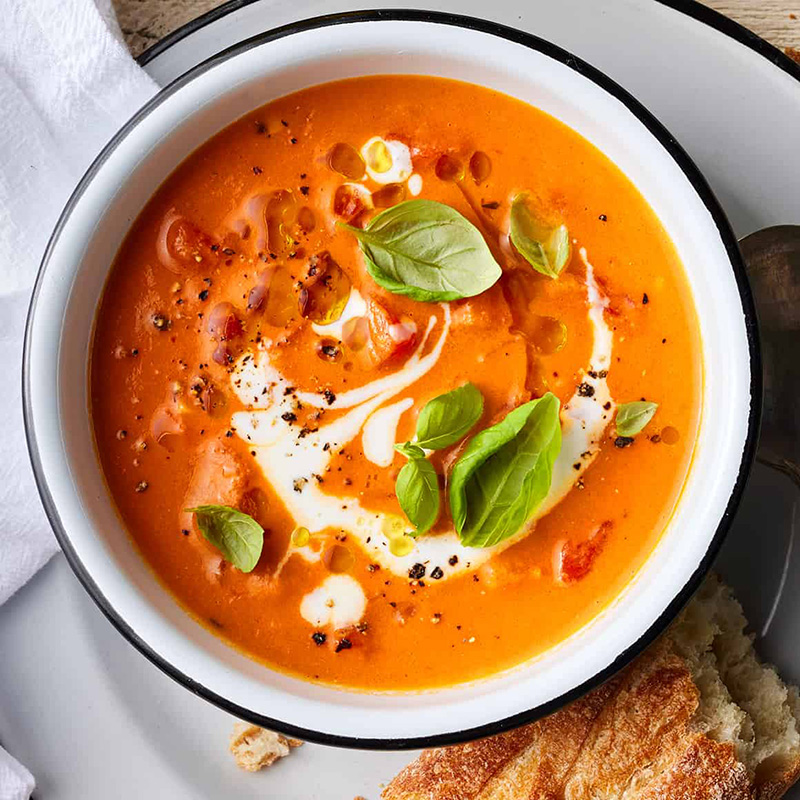
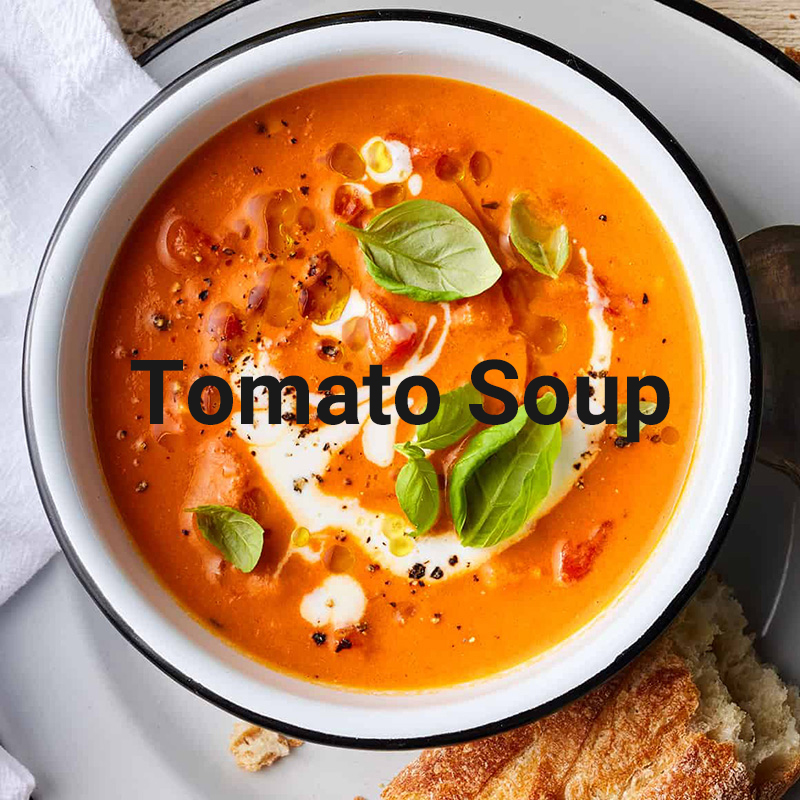
Update Home images with text, add back to Home buttons

Changed region(s): [[0.1562, 0.4375, 0.8438, 0.5625]]

diff --git a/recipes/tomatosoup.html b/recipes/tomatosoup.html
@@ -7,8 +7,11 @@
 </head>
 <body>
     <h1>Tomato Soup</h1>
+    <hr>
+    <a href="../index.html">Back to Home</a>
+    <hr>
     <img src="../images/tomatosoup_Banner_01.jpg" alt="An image of a Tomato Soup">
-    <p><strong> soup recipe is simple, quick,
+    <p><strong> This tomato soup recipe is simple, quick,
         and perfect to make when tomatoes are ripe in gardens and farmers'
         markets for a delicious summertime treat. Delicious with garlic bread or a grilled cheese sandwich.</strong></p>
     <p>One spoonful of tomato soup has the power to automatically transport you back to your childhood.
@@ -27,6 +30,14 @@
         <li><strong>Flour:</strong> Use all-purpose flour to make your roux.</li>
         <li><strong>Sugar</strong> and <strong>Salt:</strong> Add these two seasonings until the soup suites your tastebuds.</li>
     </ul>
+    <h2>How to Make Tomato Soup</h2>
+    <ol>
+        <li>Boil the tomatoes, onion, garlic, and broth.</li>
+        <li>Run the mixture through a food mill into a large bowl.</li>
+        <li>Make a roux.</li>
+        <li>Add the tomato mixture and season.</li>
+    </ol>
+ 
 
 </body>
 </html>

diff --git a/index.html b/index.html
@@ -7,6 +7,8 @@
 </head>
 <body>
     <h1>Recipe Collection</h1>
+    <p><i><strong>"Let food be the medicine and medicine be the food."</strong></i></p>
+    <p><i>Hippocrates</i></p>
     <a href="./recipes/tomatosoup.html"><img src="./images/Tomatosoup_01.jpg" alt="An image of a Tomato Soup" width="300"></a>
     <a href="./recipes/broccolisalad.html"><img src="./images/broccolisalad_01.jpg" alt="An image of a Broccoli Salad" width="300"></a>
     <a href="./recipes/lasagna.html"><img src="./images/lasagna_01.jpg" alt="An image of a Lasagna" width="300"></a>

diff --git a/recipes/lasagna.html b/recipes/lasagna.html
@@ -7,6 +7,9 @@
 </head>
 <body>
     <h1>Lasagna</h1>
+    <hr>
+    <a href="../index.html">Back to Home</a>
+    <hr>
     <img src="../images/lasagna_Banner_01.jpg" alt="An image of a lasagna">
     <p><strong>This lasagna recipe takes a little work, but it is so satisfying and filling that it's worth it!</strong></p>
     <p> <strong>Making lasagna</strong> can be time-consuming, but the results are well worth the wait. You'll find a detailed ingredient

diff --git a/recipes/broccolisalad.html b/recipes/broccolisalad.html
@@ -7,6 +7,9 @@
 </head>
 <body>
     <h1>Broccoli Salad</h1>
+    <hr>
+    <a href="../index.html">Back to Home</a>
+    <hr>
     <img src="../images/broccolisalad_Banner_01.jpg" alt="An image of a broccoli salad">
     <p><strong>This homemade broccoli salad uses a tasty combination of fresh broccoli,
         cranberries, nuts, and bacon tossed in a tangy creamy dressing. You might want
